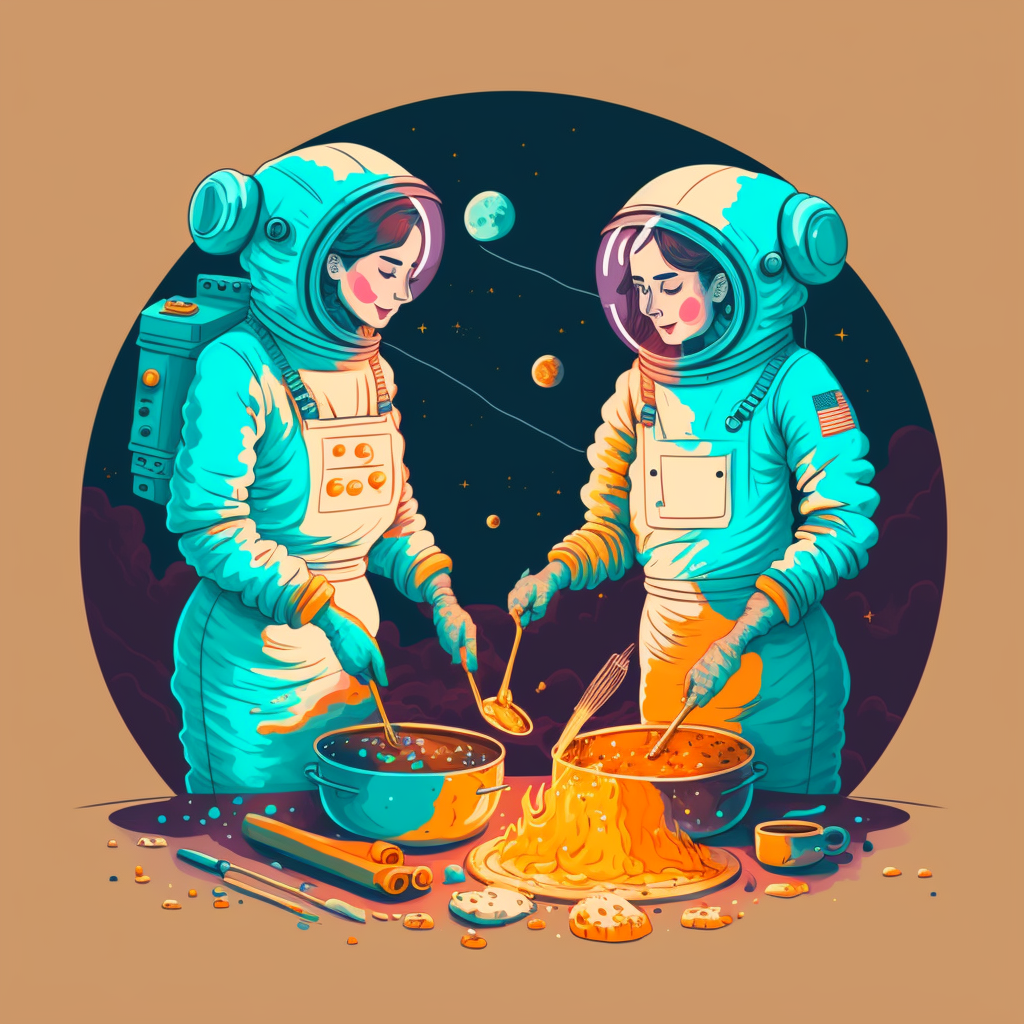
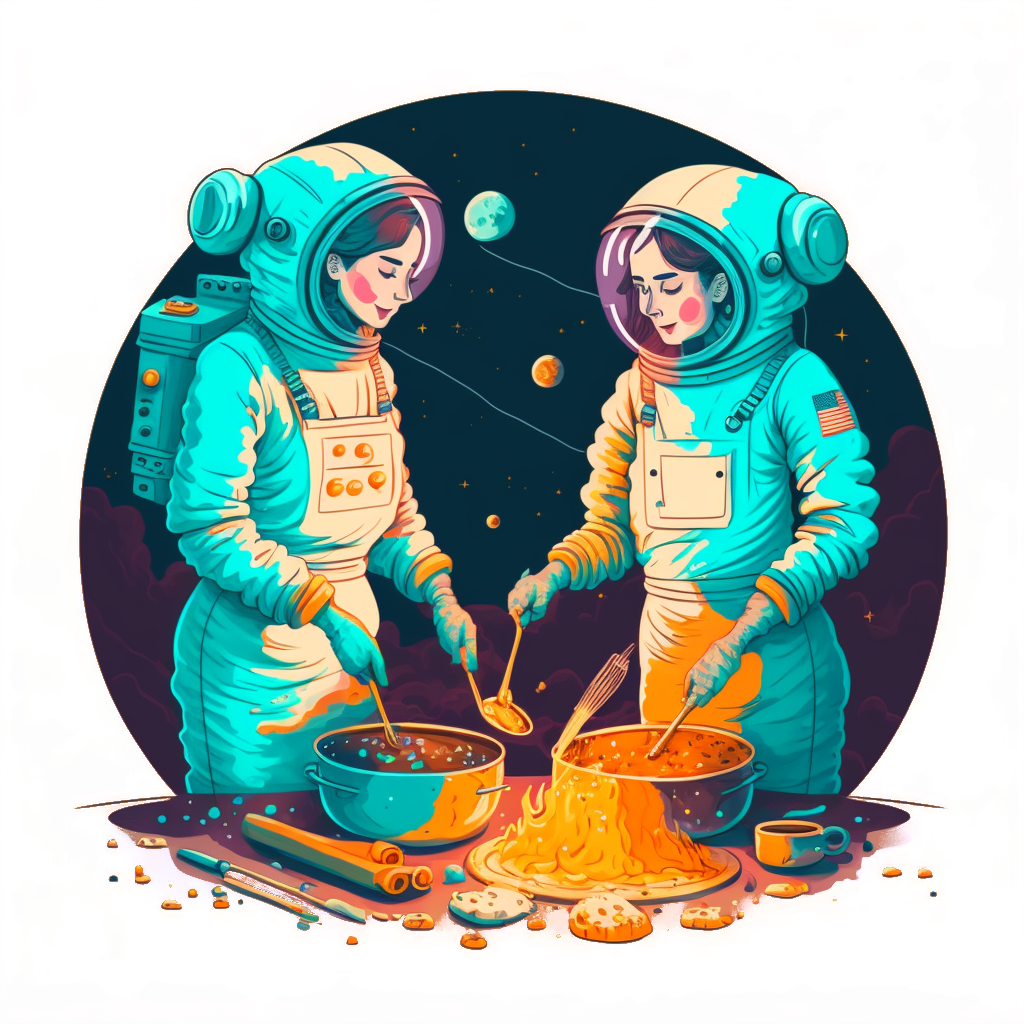
add the two images to the about page

diff --git a/about.md b/about.md
@@ -4,6 +4,9 @@ layout: default
 ---
 
 <section class="container2">
+
+<img src="{{ site.baseurl }}/images/heptylena_two_women_in_space_suits_cooking_together_stars_and_g_8cea3400-30b1-433c-a544-6830da637a95.png" style="width: 20em; float: right; padding: 1em;" alt="two women in a cardiod shape, one with orange, one with purple hair, both are cooking at a pot. They're both in spacesuits. It's AI art and everything is a little bit dreamy" />
+
 <p>
 Welcome to the Galaxians Recipe Site!
 
@@ -12,6 +15,8 @@ We are two girlfriends who love making yummy treats together. Our love for food 
 
 <p>
 We started this site to share our passion for cooking and baking with everyone. We hope to bring joy to your kitchen, and to your taste buds. We want to spread our love for food and show off our creative recipes. We strive to make food that is not only scrumptious, but also visually appealing.
+
+<img src="{{ site.baseurl }}/images/heptylena_two_women_in_space_suits_cooking_together_stars_and_g_479f6c63-3d62-4e8f-9c61-b1a86d0d13a9.png" style="width: 20em; float: left; padding: 1em;" alt="two white women in space suits stand over a pot. A plate of fire sits awkwardly in front of the two pots, as this is AI artwork. The orange of the fire complements the teal shadows on their spacesuits."/>
 
 <p>
 We are always looking for new recipes to try, and we invite you to join us on our culinary journey. We love hearing your feedback, so feel free to drop us a line and let us know what you think of our creations.
